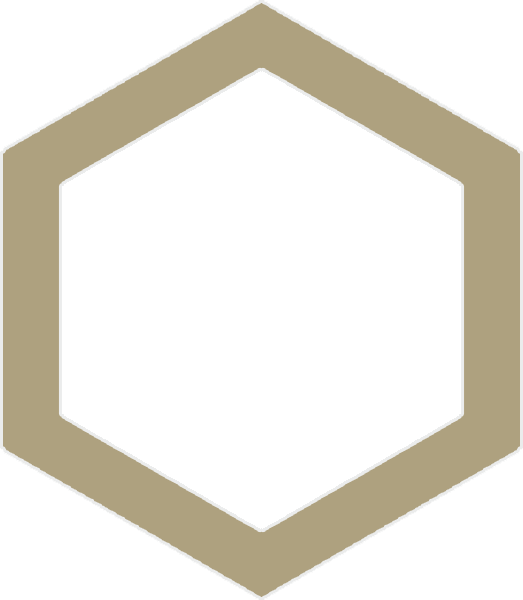
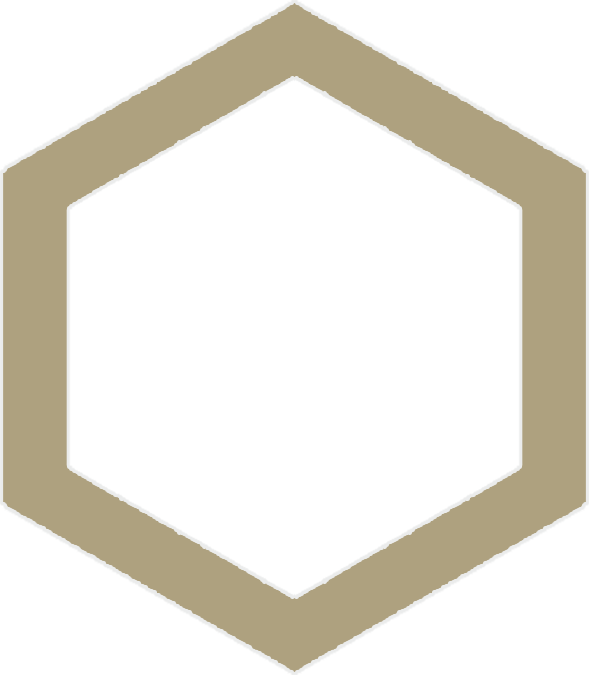
updated sprites and triangle coordinates

diff --git a/Assets/scripts/mainholder.cs b/Assets/scripts/mainholder.cs
@@ -158,16 +158,16 @@ public class mainholder : MonoBehaviour {
 	}
 
 	public static List<float[]> getTriangleCoordinates(){
-		float[] triOffset = { 0.0f, 0.7f };
+		float[] triOffset = { 0.0f, 0.0f };
 		List<float[]> coordinates = new List<float[]> ();
 		List<float[]> endpoints = new List<float[]> ();
-		float[] temp1 = { 0, 3.0f * Mathf.Cos (Mathf.PI/3.0f) };
+		float[] temp1 = { 0, (6.0f * Mathf.Cos (Mathf.PI/6.0f))/2 };
 		endpoints.Add(temp1);
-		float[] temp2 = {-3.0f, -3.0f};
+		float[] temp2 = { -3.0f, -(6.0f * Mathf.Cos (Mathf.PI/6.0f) )/2};
 		endpoints.Add(temp2);
-		float[] temp3 = {3.0f,-3.0f};
+		float[] temp3 = { 3.0f, -(6.0f * Mathf.Cos (Mathf.PI/6.0f) )/2};
 		endpoints.Add(temp3);
-		float[] temp4 = {0,3.0f * Mathf.Cos (Mathf.PI/3.0f)};
+		float[] temp4 = { 0, (6.0f * Mathf.Cos (Mathf.PI/6.0f))/2};
 		endpoints.Add(temp4);
 
 		for (int i=1 ; i<endpoints.Count ; i++){
